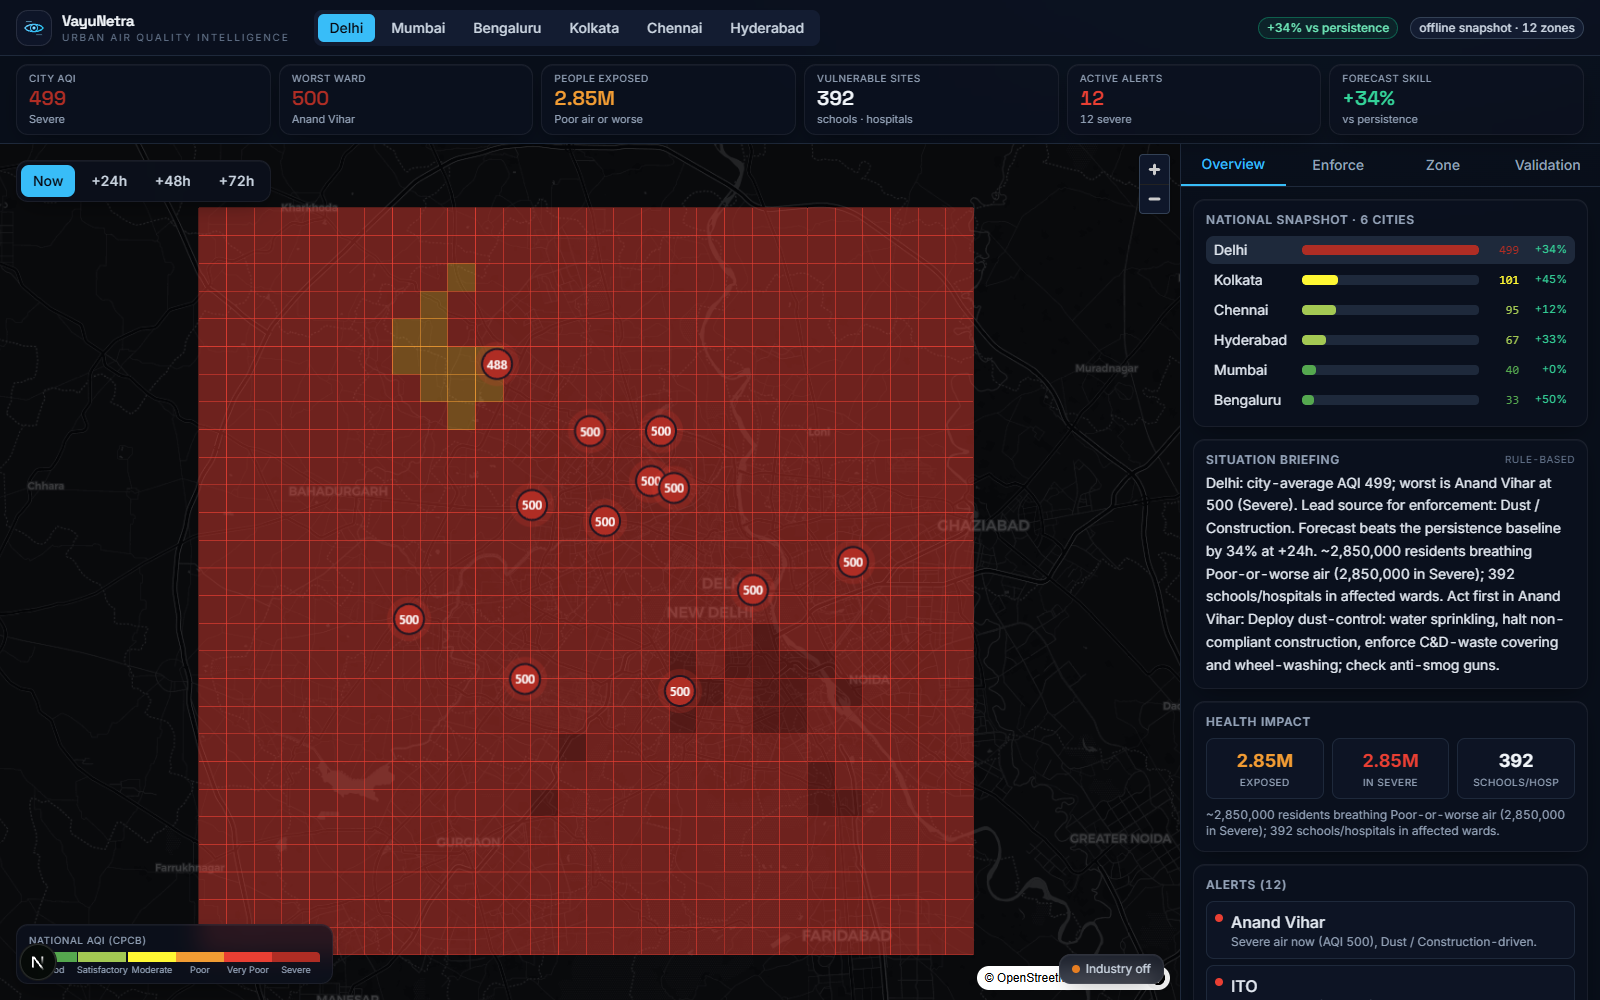
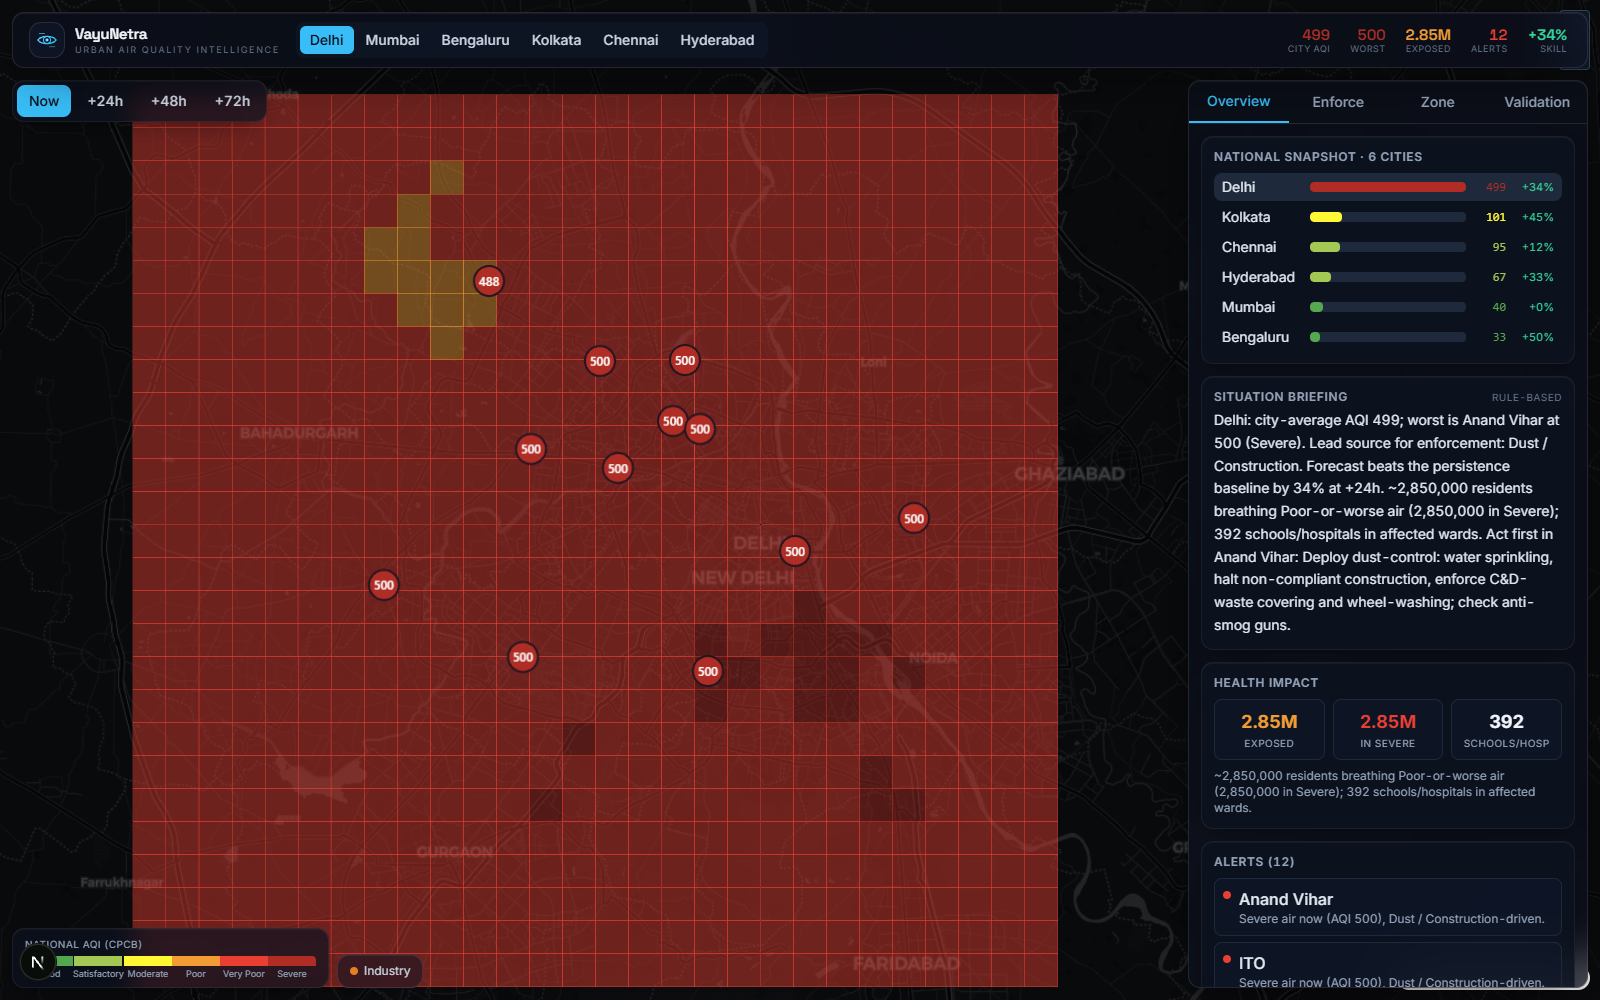
feat(ui): cockpit rebuild — full-bleed map + frosted-glass HUD (cinematic+glass+cockpit)
- map is now edge-to-edge hero; intelligence rides on top as translucent glass panels
- cockpit header: logo + city tabs + inline KPI cluster (AQI/worst/exposed/alerts/skill)
- floating glass: right intelligence panel, time control, legend, industry toggle
- glass utility (backdrop-blur, inset highlight, deep shadow)
- map fit/focus padding so heatmap + selected station stay clear of the HUD panels
- per the user-chosen direction; production build green, 0 console errors

diff --git a/frontend/src/app/page.tsx b/frontend/src/app/page.tsx
@@ -6,11 +6,10 @@ import clsx from "clsx";
 import { api } from "@/lib/api";
 import type { City, CityIntelligence, GridResponse } from "@/lib/types";
 import Topbar from "@/components/Topbar";
-import KpiStrip from "@/components/KpiStrip";
-import OverviewPanel from "@/components/OverviewPanel";
 import Legend from "@/components/Legend";
 import TimeControl from "@/components/TimeControl";
 import type { TimeValue } from "@/components/TimeControl";
+import OverviewPanel from "@/components/OverviewPanel";
 import EnforcementPanel from "@/components/EnforcementPanel";
 import MetricsPanel from "@/components/MetricsPanel";
 import ZonePanel from "@/components/ZonePanel";
@@ -79,7 +78,7 @@ export default function Page() {
   if (!cities.length && error) {
     return (
       <main className="grid min-h-screen place-items-center p-6">
-        <div className="card max-w-md p-6 text-center">
+        <div className="glass max-w-md p-6 text-center">
           <h1 className="text-lg font-semibold text-rose-400">Cannot reach the API</h1>
           <p className="mt-2 text-sm text-slate-400">{error}</p>
           <p className="mt-3 text-xs text-slate-500">
@@ -95,7 +94,7 @@ export default function Page() {
     return (
       <main className="grid min-h-screen place-items-center">
         <div className="text-center text-slate-400">
-          <div className="text-2xl font-bold text-brand">VayuNetra</div>
+          <div className="font-display text-2xl font-bold text-brand">VayuNetra</div>
           <div className="mt-1 text-sm">Loading cities…</div>
         </div>
       </main>
@@ -103,87 +102,85 @@ export default function Page() {
   }
 
   return (
-    <div className="flex h-screen flex-col">
-      <Topbar cities={cities} cityId={cityId} onCity={setCityId} intel={intel} />
-      {intel && <KpiStrip intel={intel} />}
-      <div className="flex min-h-0 flex-1">
-        <div className="relative flex-1">
-          <AirMap
-            city={city}
-            grid={grid}
-            attributions={intel?.attributions ?? []}
-            selectedZoneId={selectedZoneId}
-            onSelectZone={onSelectZone}
-            industrial={intel?.landuse?.industrial}
-            showIndustry={showIndustry}
-          />
-          <div className="absolute left-4 top-4 z-10">
-            <TimeControl value={time} onChange={setTime} />
-          </div>
-          <div className="absolute bottom-4 left-4 z-10">
-            <Legend />
-          </div>
-          <button
-            onClick={() => setShowIndustry((s) => !s)}
-            className={clsx(
-              "card absolute bottom-4 right-4 z-10 flex items-center gap-1.5 px-3 py-1.5 text-xs transition-colors",
-              showIndustry ? "text-amber-300" : "text-slate-300",
-            )}
-          >
-            <span className="h-2 w-2 rounded-full" style={{ background: "#E67E22" }} />
-            Industry {showIndustry ? "on" : "off"}
-          </button>
-          {time.layer === "forecast" && (
-            <div className="card absolute right-4 top-4 z-10 px-3 py-1.5 text-xs text-slate-200">
-              Predicted AQI · +{time.horizon}h
-            </div>
-          )}
-          {loading && (
-            <div className="absolute inset-0 z-20 grid place-items-center bg-ink-950/50 backdrop-blur-sm">
-              <div className="card px-4 py-3 text-sm text-slate-200">Building intelligence…</div>
-            </div>
-          )}
-        </div>
-
-        <aside className="flex w-[420px] flex-shrink-0 flex-col border-l border-ink-700 bg-ink-900/40">
-          <div className="flex flex-shrink-0 border-b border-ink-700">
-            {(["overview", "enforce", "zone", "metrics"] as Tab[]).map((t) => (
-              <button
-                key={t}
-                onClick={() => setTab(t)}
-                className={clsx(
-                  "flex-1 py-2.5 text-sm font-medium capitalize transition-colors",
-                  tab === t ? "border-b-2 border-brand text-brand" : "text-slate-400 hover:text-slate-200",
-                )}
-              >
-                {t === "enforce" ? "Enforce" : t === "metrics" ? "Validation" : t}
-              </button>
-            ))}
-          </div>
-          <div key={tab} ref={sidebarRef} className="vn-fade min-h-0 flex-1 overflow-y-auto p-3">
-            {tab === "overview" &&
-              (intel ? (
-                <OverviewPanel intel={intel} onSelectZone={onSelectZone} onCity={setCityId} activeCityId={cityId} />
-              ) : (
-                <Placeholder text="Loading overview…" />
-              ))}
-            {tab === "enforce" &&
-              (intel ? (
-                <EnforcementPanel city={city} items={intel.enforcement} onSelectZone={onSelectZone} />
-              ) : (
-                <Placeholder text="Loading enforcement priorities…" />
-              ))}
-            {tab === "zone" &&
-              (selectedZoneId && intel ? (
-                <ZonePanel city={city} zoneId={selectedZoneId} attribution={attribution} advisory={advisory} />
-              ) : (
-                <Placeholder text="Select a station marker on the map to see its 72-hour forecast, source attribution and citizen advisory." />
-              ))}
-            {tab === "metrics" &&
-              (intel ? <MetricsPanel intel={intel} /> : <Placeholder text="Loading metrics…" />)}
-          </div>
-        </aside>
+    <div className="relative h-screen w-screen overflow-hidden">
+      <div className="absolute inset-0">
+        <AirMap
+          city={city}
+          grid={grid}
+          attributions={intel?.attributions ?? []}
+          selectedZoneId={selectedZoneId}
+          onSelectZone={onSelectZone}
+          industrial={intel?.landuse?.industrial}
+          showIndustry={showIndustry}
+        />
       </div>
+
+      <Topbar cities={cities} cityId={cityId} onCity={setCityId} intel={intel} />
+
+      <div className="absolute left-3 top-20 z-20 flex flex-col items-start gap-2">
+        <TimeControl value={time} onChange={setTime} />
+        {time.layer === "forecast" && (
+          <div className="glass px-3 py-1.5 text-xs text-slate-200">Predicted AQI · +{time.horizon}h</div>
+        )}
+      </div>
+
+      <div className="absolute bottom-3 left-3 z-20 flex items-end gap-2">
+        <Legend />
+        <button
+          onClick={() => setShowIndustry((s) => !s)}
+          className={clsx(
+            "glass flex items-center gap-1.5 px-3 py-2 text-xs transition-colors",
+            showIndustry ? "text-amber-300" : "text-slate-300",
+          )}
+        >
+          <span className="h-2 w-2 rounded-full" style={{ background: "#E67E22" }} />
+          Industry
+        </button>
+      </div>
+
+      <aside className="glass absolute bottom-3 right-3 top-20 z-20 flex w-[400px] flex-col overflow-hidden">
+        <div className="flex flex-shrink-0 border-b border-white/10">
+          {(["overview", "enforce", "zone", "metrics"] as Tab[]).map((t) => (
+            <button
+              key={t}
+              onClick={() => setTab(t)}
+              className={clsx(
+                "flex-1 py-2.5 text-sm font-medium capitalize transition-colors",
+                tab === t ? "border-b-2 border-brand text-brand" : "text-slate-400 hover:text-slate-200",
+              )}
+            >
+              {t === "enforce" ? "Enforce" : t === "metrics" ? "Validation" : t}
+            </button>
+          ))}
+        </div>
+        <div key={tab} ref={sidebarRef} className="vn-fade min-h-0 flex-1 overflow-y-auto p-3">
+          {tab === "overview" &&
+            (intel ? (
+              <OverviewPanel intel={intel} onSelectZone={onSelectZone} onCity={setCityId} activeCityId={cityId} />
+            ) : (
+              <Placeholder text="Loading overview…" />
+            ))}
+          {tab === "enforce" &&
+            (intel ? (
+              <EnforcementPanel city={city} items={intel.enforcement} onSelectZone={onSelectZone} />
+            ) : (
+              <Placeholder text="Loading enforcement priorities…" />
+            ))}
+          {tab === "zone" &&
+            (selectedZoneId && intel ? (
+              <ZonePanel city={city} zoneId={selectedZoneId} attribution={attribution} advisory={advisory} />
+            ) : (
+              <Placeholder text="Click a station on the map to see its 72-hour forecast, source attribution and citizen advisory." />
+            ))}
+          {tab === "metrics" && (intel ? <MetricsPanel intel={intel} /> : <Placeholder text="Loading metrics…" />)}
+        </div>
+      </aside>
+
+      {loading && (
+        <div className="absolute inset-0 z-40 grid place-items-center bg-ink-950/40 backdrop-blur-sm">
+          <div className="glass px-4 py-3 text-sm text-slate-200">Building intelligence…</div>
+        </div>
+      )}
     </div>
   );
 }

diff --git a/frontend/src/components/Topbar.tsx b/frontend/src/components/Topbar.tsx
@@ -3,6 +3,19 @@
 import clsx from "clsx";
 import Logo from "./Logo";
 import type { City, CityIntelligence } from "@/lib/types";
+import { aqiColor } from "@/lib/aqi";
+import { compact } from "@/lib/format";
+
+function Kpi({ label, value, color }: { label: string; value: React.ReactNode; color?: string }) {
+  return (
+    <div className="flex flex-col items-end leading-none">
+      <span className="font-display text-[15px] font-semibold tabular-nums" style={color ? { color } : undefined}>
+        {value}
+      </span>
+      <span className="mt-0.5 text-[9px] uppercase tracking-wider text-slate-500">{label}</span>
+    </div>
+  );
+}
 
 export default function Topbar({
   cities, cityId, onCity, intel,
@@ -12,27 +25,34 @@ export default function Topbar({
   onCity: (id: string) => void;
   intel: CityIntelligence | null;
 }) {
+  const h = intel?.health;
+  const worst = intel?.attributions?.length
+    ? intel.attributions.reduce((a, b) => (b.aqi > a.aqi ? b : a))
+    : null;
+  const skill = intel?.metrics?.horizons?.[0]?.improvement_pct;
+  const severe = intel?.alerts?.filter((a) => a.level === "severe").length ?? 0;
+
   return (
-    <header className="flex h-14 flex-shrink-0 items-center gap-4 border-b border-ink-700 bg-ink-900/80 px-4 backdrop-blur">
+    <header className="glass absolute inset-x-3 top-3 z-30 flex h-14 items-center gap-3 px-4">
       <div className="flex items-center gap-2.5">
-        <div className="grid h-9 w-9 place-items-center rounded-xl border border-white/10 bg-ink-850/80 shadow-lg">
+        <div className="grid h-9 w-9 place-items-center rounded-xl border border-white/10 bg-ink-850/70">
           <Logo size={22} />
         </div>
         <div className="leading-tight">
           <div className="font-display text-[15px] font-semibold tracking-tight text-slate-100">VayuNetra</div>
-          <div className="hidden text-[10px] uppercase tracking-[0.18em] text-slate-500 sm:block">
+          <div className="hidden text-[9px] uppercase tracking-[0.18em] text-slate-500 xl:block">
             Urban Air Quality Intelligence
           </div>
         </div>
       </div>
 
-      <div className="ml-2 flex items-center gap-1 rounded-lg bg-ink-800 p-1">
+      <div className="ml-1 flex items-center gap-0.5 rounded-lg bg-ink-850/60 p-1">
         {cities.map((c) => (
           <button
             key={c.id}
             onClick={() => onCity(c.id)}
             className={clsx(
-              "rounded-md px-3 py-1 text-sm font-medium transition-colors",
+              "rounded-md px-2.5 py-1 text-sm font-medium transition-colors",
               c.id === cityId ? "bg-brand text-ink-950" : "text-slate-300 hover:bg-ink-700",
             )}
           >
@@ -41,17 +61,12 @@ export default function Topbar({
         ))}
       </div>
 
-      <div className="ml-auto flex items-center gap-3 text-xs">
-        {intel?.metrics?.horizons?.[0] && (
-          <span className="chip border border-emerald-500/40 bg-emerald-500/10 text-emerald-300">
-            +{intel.metrics.horizons[0].improvement_pct.toFixed(0)}% vs persistence
-          </span>
-        )}
-        {intel && (
-          <span className="chip border border-ink-600 bg-ink-800 text-slate-300">
-            {intel.data_source === "snapshot" ? "offline snapshot" : intel.data_source} · {intel.attributions.length} zones
-          </span>
-        )}
+      <div className="ml-auto flex items-center gap-4 pr-1 sm:gap-5">
+        {h && <Kpi label="City AQI" value={h.avg_aqi} color={aqiColor(h.avg_aqi)} />}
+        {worst && <Kpi label="Worst" value={worst.aqi} color={aqiColor(worst.aqi)} />}
+        {h && <Kpi label="Exposed" value={compact(h.exposed_population)} color="#F29C33" />}
+        <Kpi label="Alerts" value={intel?.alerts?.length ?? "—"} color={severe ? "#E93F33" : undefined} />
+        {skill != null && <Kpi label="Skill" value={`+${skill.toFixed(0)}%`} color="#34d399" />}
       </div>
     </header>
   );

diff --git a/frontend/src/components/AirMap.tsx b/frontend/src/components/AirMap.tsx
@@ -174,7 +174,8 @@ export default function AirMap({
       .setLngLat([z.center.lon, z.center.lat])
       .setHTML(html)
       .addTo(map);
-    map.easeTo({ center: [z.center.lon, z.center.lat], duration: 500 });
+    map.easeTo({ center: [z.center.lon, z.center.lat], duration: 500,
+                 padding: { top: 80, right: 430, bottom: 0, left: 0 } });
   }, [ready, selectedZoneId, attributions, city]);
 
   // zone HTML markers (no glyph dependency, full styling control)
@@ -213,7 +214,8 @@ export default function AirMap({
     const map = mapRef.current;
     if (!ready || !map) return;
     const b = city.bbox;
-    map.fitBounds([[b.min_lon, b.min_lat], [b.max_lon, b.max_lat]], { padding: 60, duration: 700 });
+    map.fitBounds([[b.min_lon, b.min_lat], [b.max_lon, b.max_lat]],
+      { padding: { top: 90, right: 430, bottom: 30, left: 30 }, duration: 700 });
   }, [ready, city]);
 
   // NOTE: maplibre-gl.css forces `.maplibregl-map { position: relative }`, which overrides a

diff --git a/frontend/src/app/globals.css b/frontend/src/app/globals.css
@@ -40,6 +40,10 @@ body {
   .chip {
     @apply inline-flex items-center gap-1 rounded-full px-2 py-0.5 text-xs font-medium;
   }
+  .glass {
+    @apply rounded-xl border border-white/10 bg-ink-900/55 backdrop-blur-xl;
+    box-shadow: inset 0 1px 0 0 rgba(255, 255, 255, 0.06), 0 16px 48px -16px rgba(0, 0, 0, 0.75);
+  }
 }
 
 /* MapLibre popup + control theming to match the dark UI */